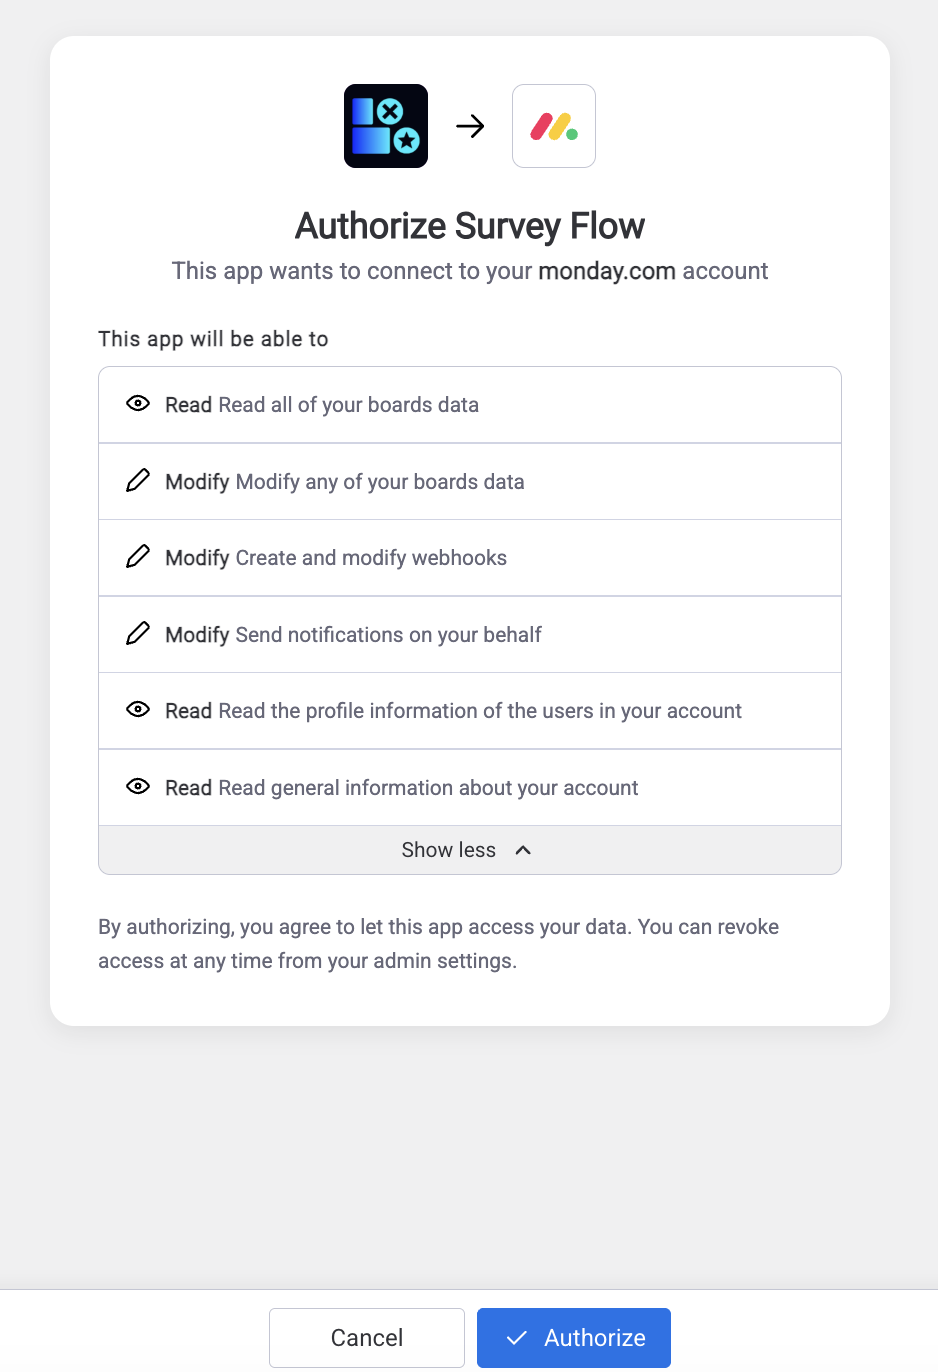
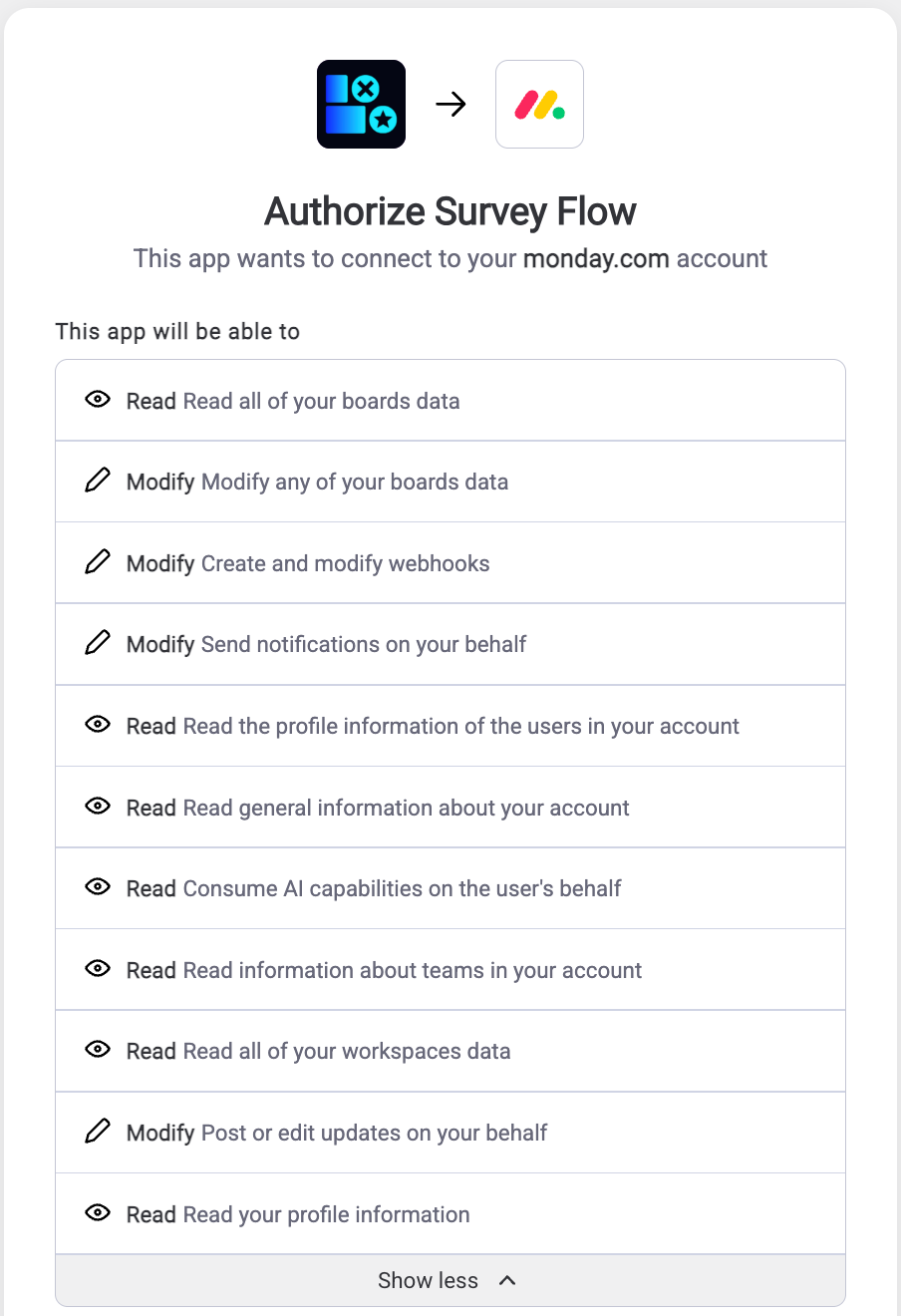
Survey Flow guide: land the v21 authorize retake and the paused screenshot
- 03-authorize retaken on v21: all 11 scopes, including Read your
  profile information.
- 53-paused-take-over uncommented, alt quoting the notice a second board
  owner sees.
- SCREENSHOTS.md: 03 and 53 landed; 54 stays outstanding, blocked on
  CFM-208 (after a reinstall the button reads Save changes).

diff --git a/survey-flow/user-guide.html b/survey-flow/user-guide.html
@@ -514,12 +514,10 @@
       <figcaption>The line under the save button names who the board runs as. Another board owner sees <em>Save and run as you</em>.</figcaption>
     </figure>
     <p><strong>If that person's authorization stops working,</strong> because they left the account, were deactivated, or revoked it, surveys on the board pause. Nothing is sent and nothing is written back until it is fixed. The dashboard shows <em>Surveys are paused on this board.</em>, names the person and why, and ends <em>Any board owner can take over: open Survey setup and save.</em> with a <em>Take over</em> button.</p>
-    <!-- SCREENSHOT NEEDED: 53-paused-take-over. See SCREENSHOTS.md.
     <figure>
-      <img class="screenshot" src="../images/survey-flow/53-paused-take-over.png" alt="The Survey Flow board view with the notice Surveys are paused on this board, the line Any board owner can take over: open Survey setup and save, and a Take over button">
+      <img class="screenshot" src="../images/survey-flow/53-paused-take-over.png" alt="The Survey Flow Overview as a second board owner sees it, with a red notice: Surveys are paused on this board. Survey Flow cannot act as David Park: their authorization is not usable. Any board owner can take over: open Survey setup and save. A Take over button sits at the right of the notice">
       <figcaption>Paused, as a board owner sees it.</figcaption>
     </figure>
-    -->
     <p>Taking over means saving the setup as you, and the button on the configuration screen says so: <em>Save and run as you</em>. From then on the board runs as you. If the board already runs as you and your own authorization is the one that stopped working, authorize again and press <em>Save to resume</em>: authorizing alone does not restart the trigger. An agent, who cannot change the setup, sees only <em>Surveys are paused on this board. Ask a board owner to check Survey setup.</em></p>
     <!-- SCREENSHOT NEEDED: 54-save-and-run-as-you. See SCREENSHOTS.md.
     <figure>

diff --git a/SCREENSHOTS.md b/SCREENSHOTS.md
@@ -67,7 +67,7 @@ those. It is the one test here that costs nothing and rules things out rather th
 
 ---
 
-## ⚠ v21 per-user OAuth and CFM-202 — 1 retake, 1 removal, 5 new: 1 landed, 2 optional (2026-11-03)
+## ⚠ v21 per-user OAuth and CFM-202 — 1 retake (landed), 1 removal (done), 5 new: 2 landed, 1 optional, 2 outstanding (2026-11-03)
 
 Prompted by a code change (csat `c1d770d`), not by a comparison, so these are reasons to capture,
 not verdicts on the old images. New figures are commented out in `user-guide.html` under
@@ -76,14 +76,14 @@ never a review account or a customer.
 
 | File | Lands in | Screen and state |
 |---|---|---|
-| `03-authorize` (RETAKE) | §2 | monday's authorize screen for Survey Flow v21, full scope list visible, 11 scopes including *Read your profile information* (`me:read`) |
+| ~~`03-authorize`~~ (RETAKE, landed 2026-11-03, see below) | §2 | monday's authorize screen for Survey Flow v21, full scope list visible, 11 scopes including *Read your profile information* (`me:read`) |
 | ~~`31-connect-admin-only`~~ (DELETE, done: file removed in 5664096) | — | Section removed: there is no admin-only connect step any more. Delete the file |
 | `47-member-authorize` | §2 | Board view opened by a MEMBER (not admin, not board owner) who has never authorized: banner *Authorize Survey Flow to use this board* with the Authorize button |
 | ~~`48`, `49`, `50`~~ (permissions banner) | — | Removed: not needed. New installs approve all scopes at install; the section covers future scope additions, so it stays version-neutral with no figures |
 | `51-opening-typing` (optional, skipped: the typing indicator shows for only 3–5 s on the first open of a link; the guide text covers it) | §3, AI | Survey page on a *Questions per ticket* board, inside the first 5 s: rating shown, typing indicator in the opening slot. Seeded ticket title only |
 | ~~`52-owner-line`~~ | — | Landed 2026-11-03, see below |
-| `53-paused-take-over` (optional, skipped for now: needs a dead owner grant) | §3, *Who the survey runs as* | Board dashboard as a DIFFERENT board owner after the config owner's grant stopped working (e.g. revoke on a second test user): *Surveys are paused on this board.* with the name line and the *Take over* button |
-| `54-save-and-run-as-you` (optional, skipped for now: needs a dead owner grant) | same | Survey setup in the same paused state, same viewer: owner line naming the previous person as not usable, save button reading *Save and run as you* |
+| ~~`53-paused-take-over`~~ (landed 2026-11-03, see below) | §3, *Who the survey runs as* | Board dashboard as a DIFFERENT board owner after the config owner's grant stopped working (e.g. revoke on a second test user): *Surveys are paused on this board.* with the name line and the *Take over* button |
+| `54-save-and-run-as-you` (outstanding: blocked on CFM-208, after a reinstall the button reads *Save changes*) | §3, *Who the survey runs as* | Survey setup in the same paused state, same viewer: owner line naming the previous person as not usable, save button reading *Save and run as you* |
 
 ## ⚠ Outstanding — 1
 
@@ -104,7 +104,7 @@ capture has now been re-shot for a reason that had nothing to do with its words.
 
 ---
 
-## Landed and wired — 18 of 19
+## Landed and wired — 20 of 21
 
 All of these are uncommented in the page, with alt text and captions checked against the image
 itself rather than against what was requested. Where they differed, the words were changed.
@@ -128,6 +128,8 @@ itself rather than against what was requested. Where they differed, the words we
 | `22-low-rating-alert` | §3, *Get told about unhappy customers* | rewritten after reshoot; see the note on its address below |
 | `24-plan-usage` | §3, *Plan and usage* | rewritten after the CFM-170 recapture — now names no figures at all |
 | `52-owner-line` | §3, *Who the survey runs as* | rewritten — taken as a second board owner, so it shows *Save and run as you* and the line names the other owner, not *you* |
+| `53-paused-take-over` | §3, *Who the survey runs as* | rewritten — quotes the whole notice as a second board owner sees it, including the not-usable sentence |
+| `03-authorize` (retake) | §2 | as written — v21, all 11 scopes visible, including *Read your profile information* |
 
 ⚠ **Two files have now arrived with a space before the extension** — `43-mode2-setting .png` and
 then `35-sidekick-skills .png`. Both renamed. This one does not fail loudly: the reference stops
